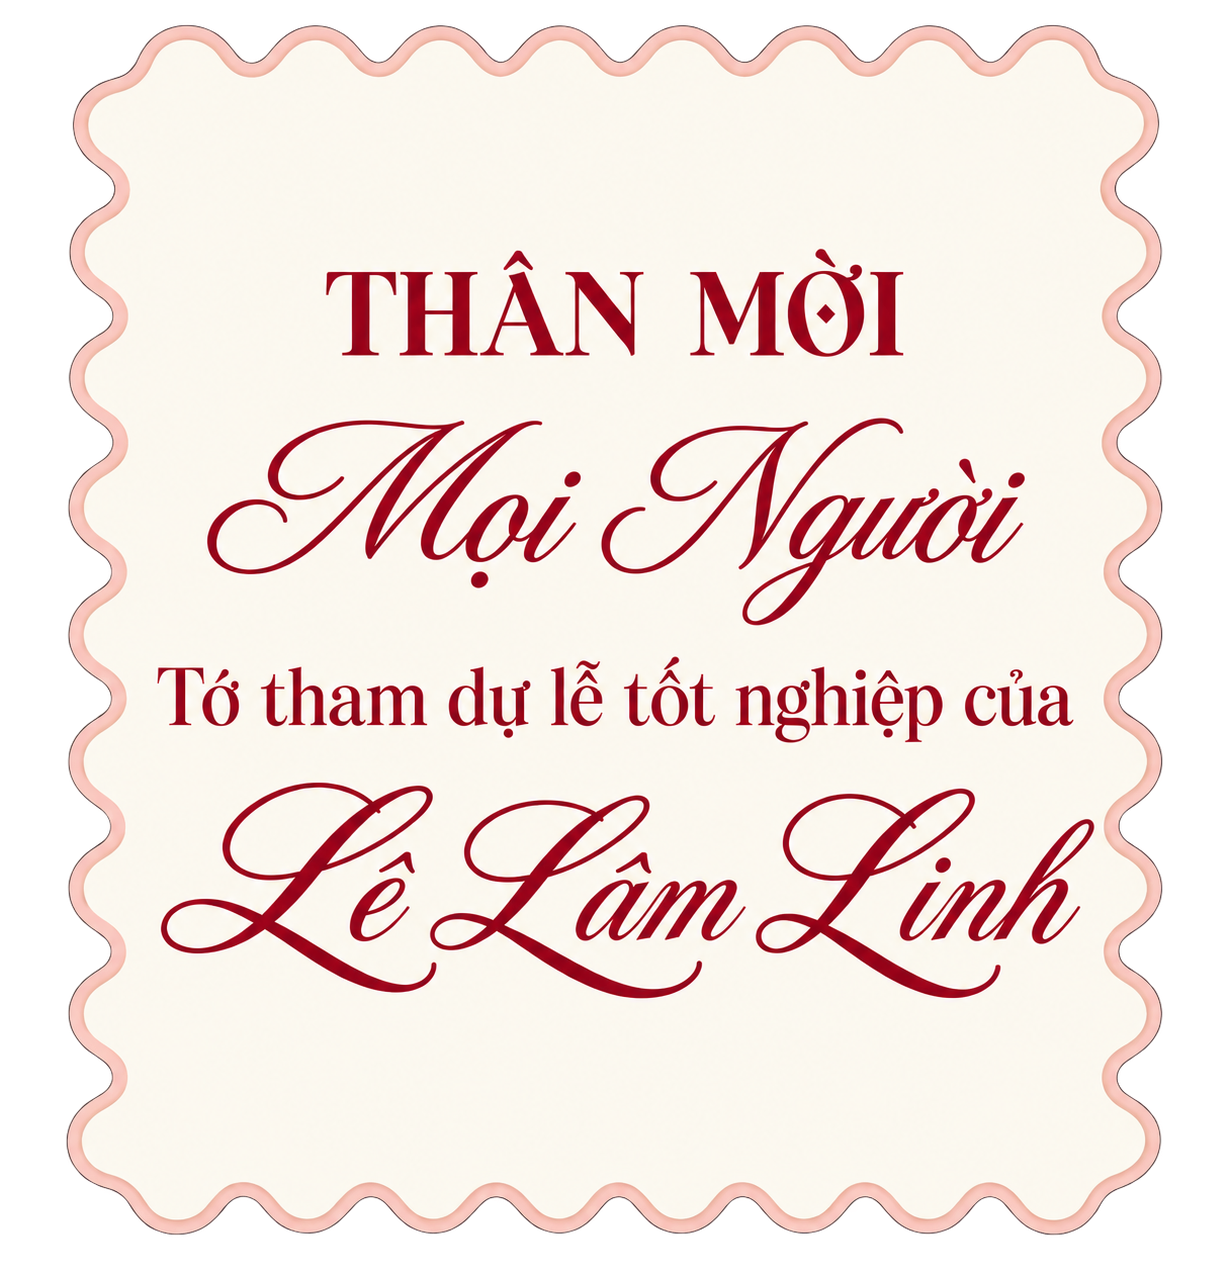
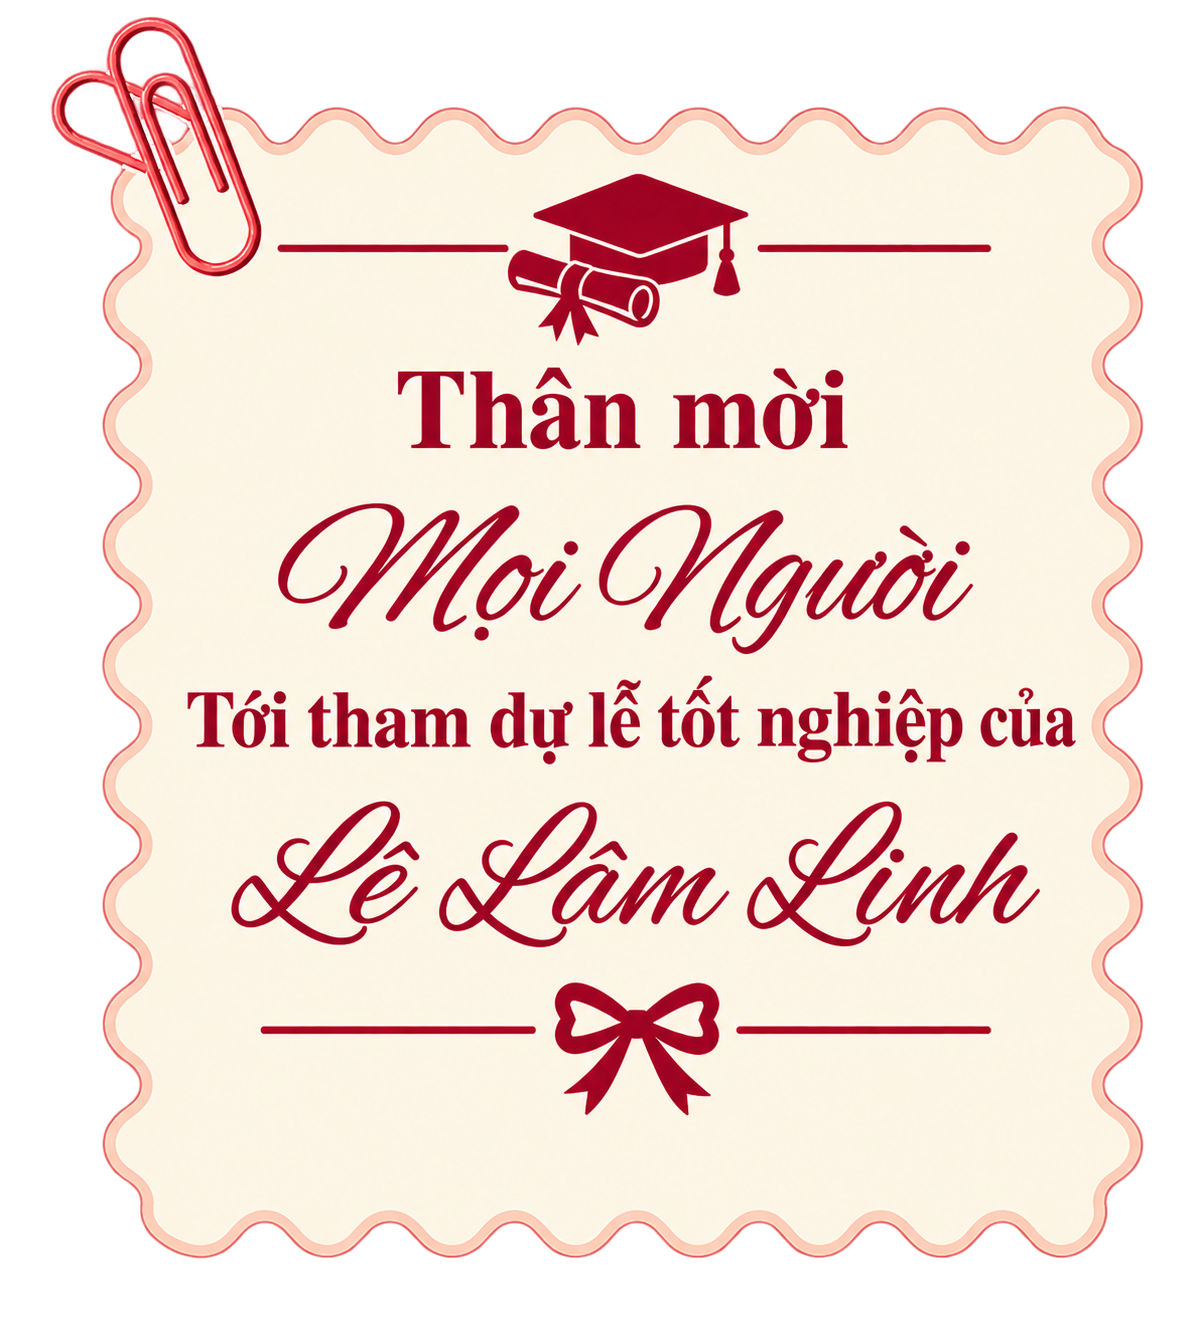
ban11

diff --git a/src/App.css b/src/App.css
@@ -148,12 +148,13 @@ body {
 ============================== */
 
 .opening.opened .envelope-paper {
-  /* Thiệp nhô lên cao hơn */
-  transform: translate(-50%, -100px);
+  /* Thiệp nhô lên một đoạn */
+  transform: translate(-50%, -70px);
 
-  /* Hiện toàn bộ ảnh thiệp */
+  /* Hiện ảnh từ từ */
   clip-path: inset(0 0 0 0);
 
+  /* Giữ phía sau mặt trước */
   z-index: 2;
 
   transition-delay: 0.9s, 0.9s;
@@ -216,6 +217,7 @@ body {
     0 100%
   );
 
+  /* Quan trọng: che phần dưới của ảnh thiệp */
   z-index: 3;
 }
 
@@ -514,10 +516,10 @@ body {
     height: auto;
   }
 
-  /* Thiệp nhô lên cao hơn trên mobile */
+  /* Thiệp nhô lên nhẹ trên mobile */
 
   .opening.opened .envelope-paper {
-    transform: translate(-50%, -25vw);
+    transform: translate(-50%, -20vw);
     z-index: 2;
   }
 
